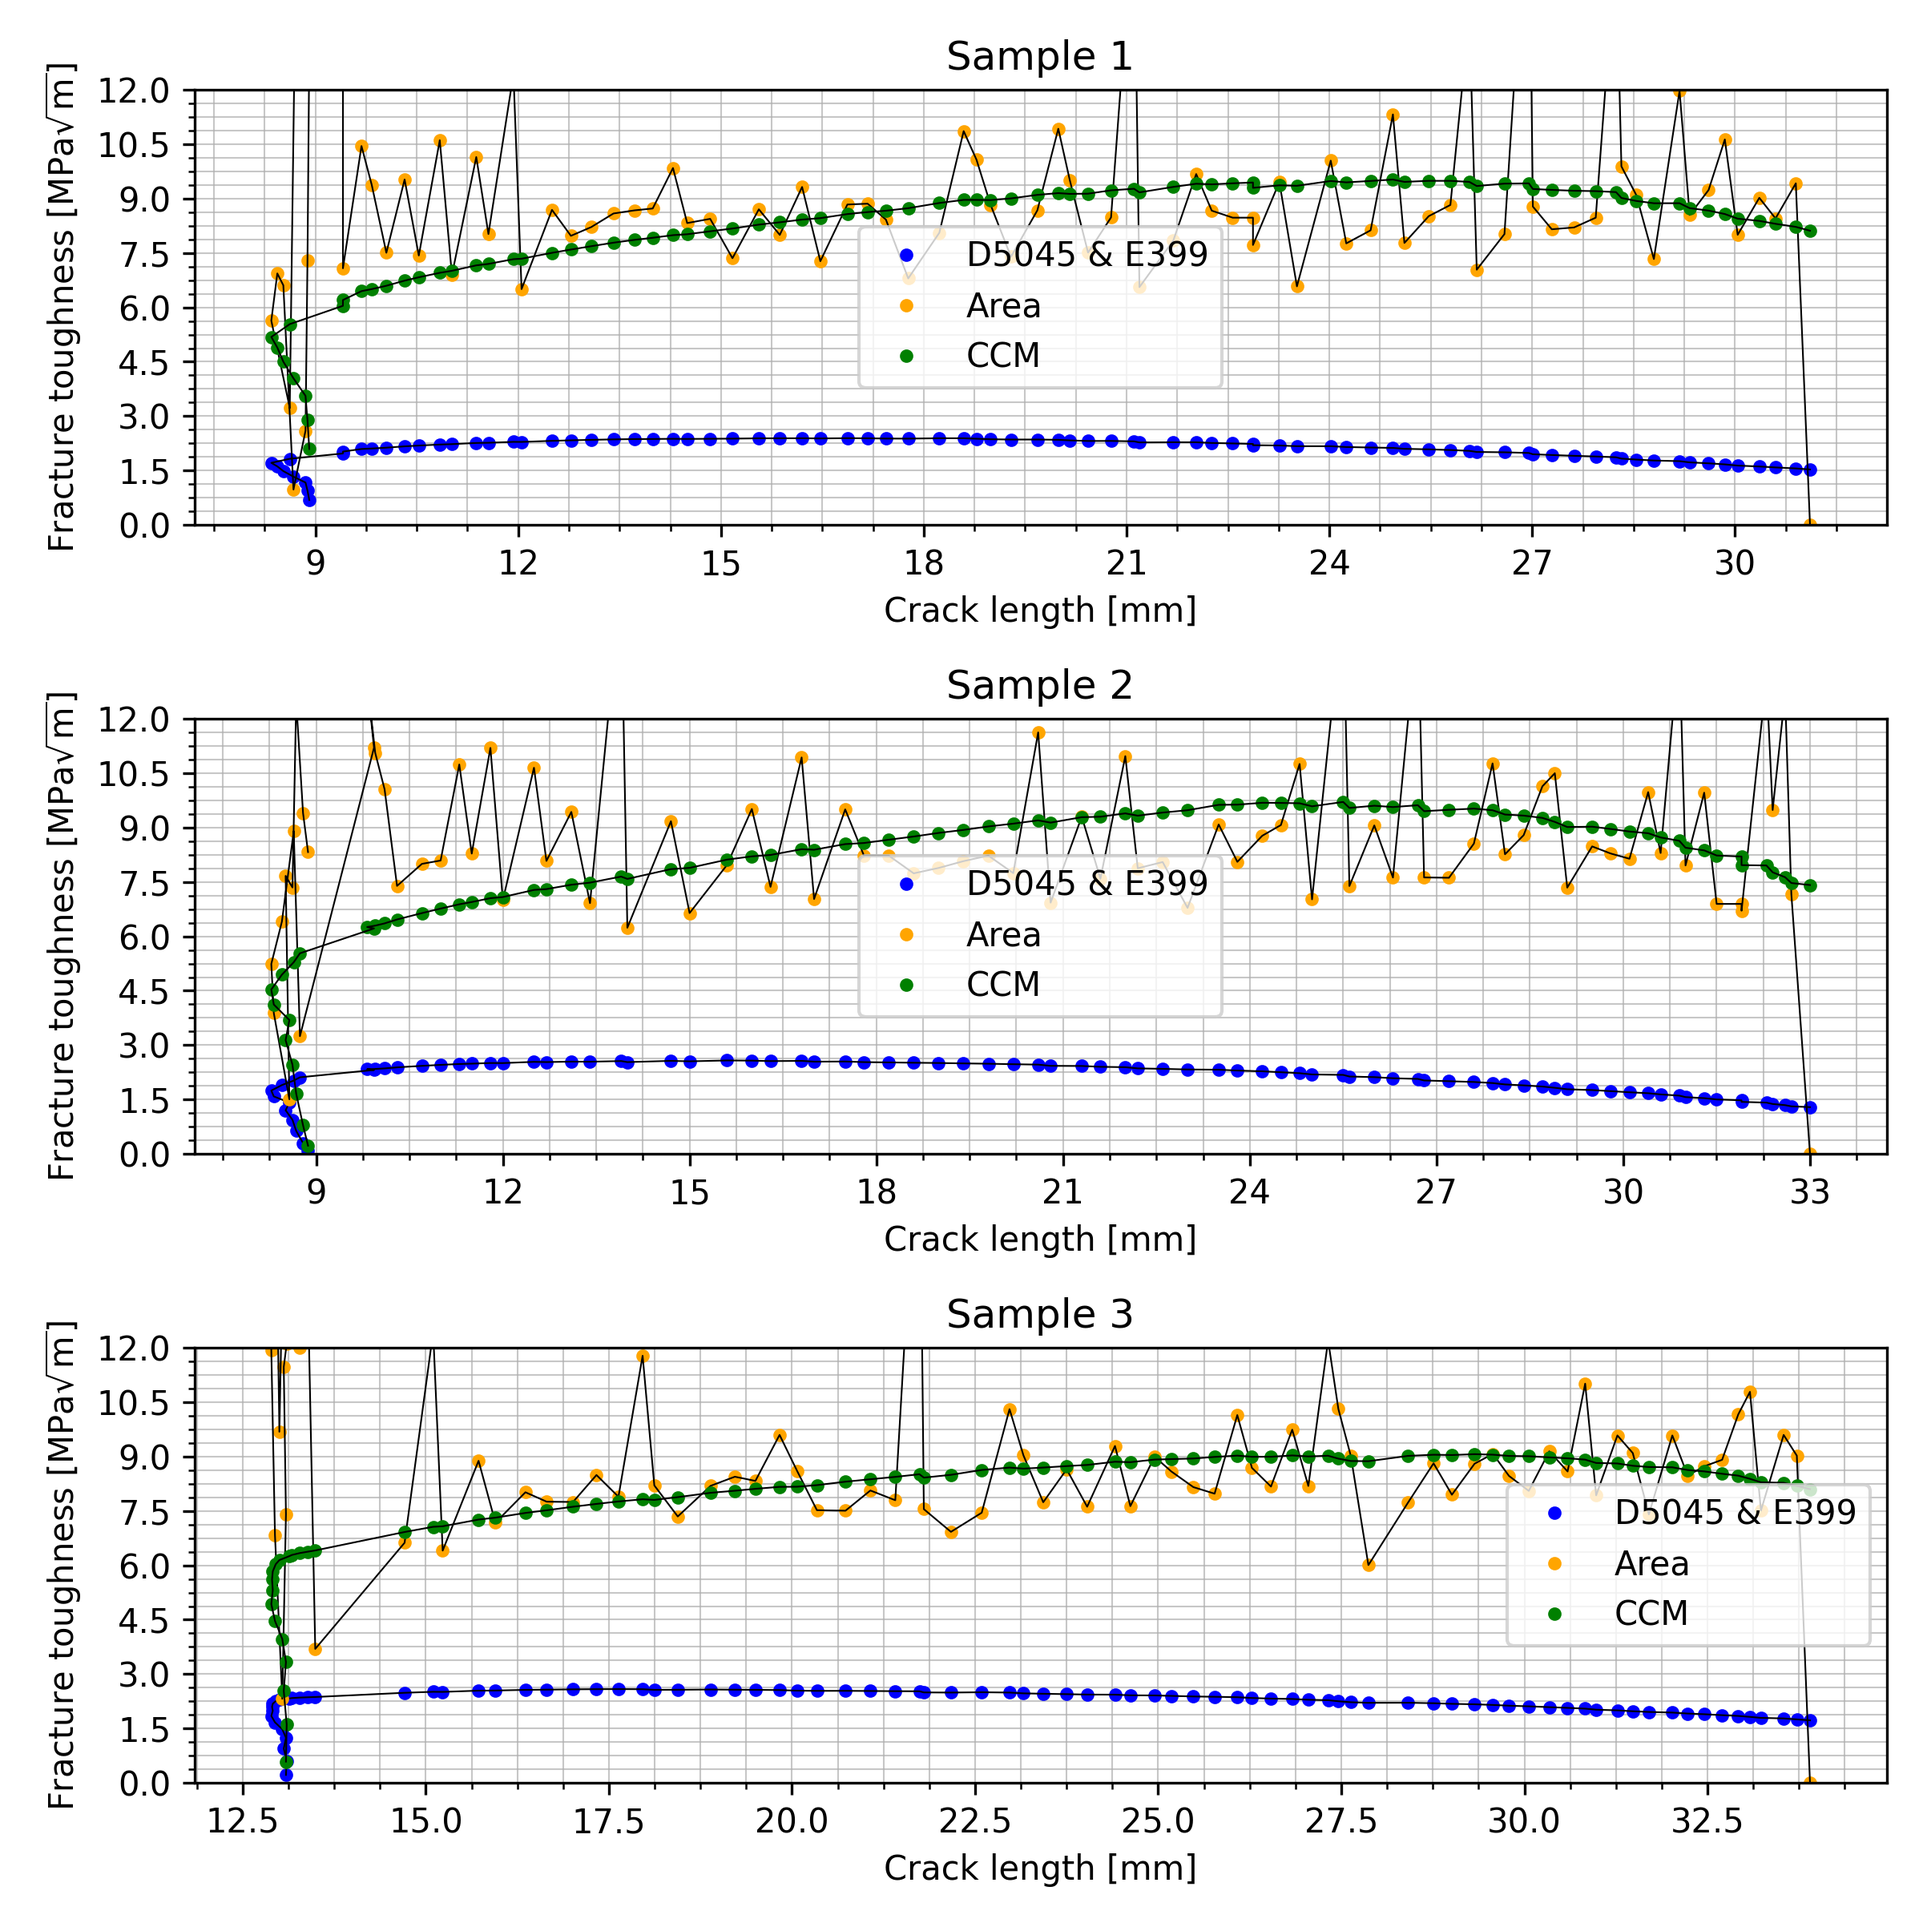
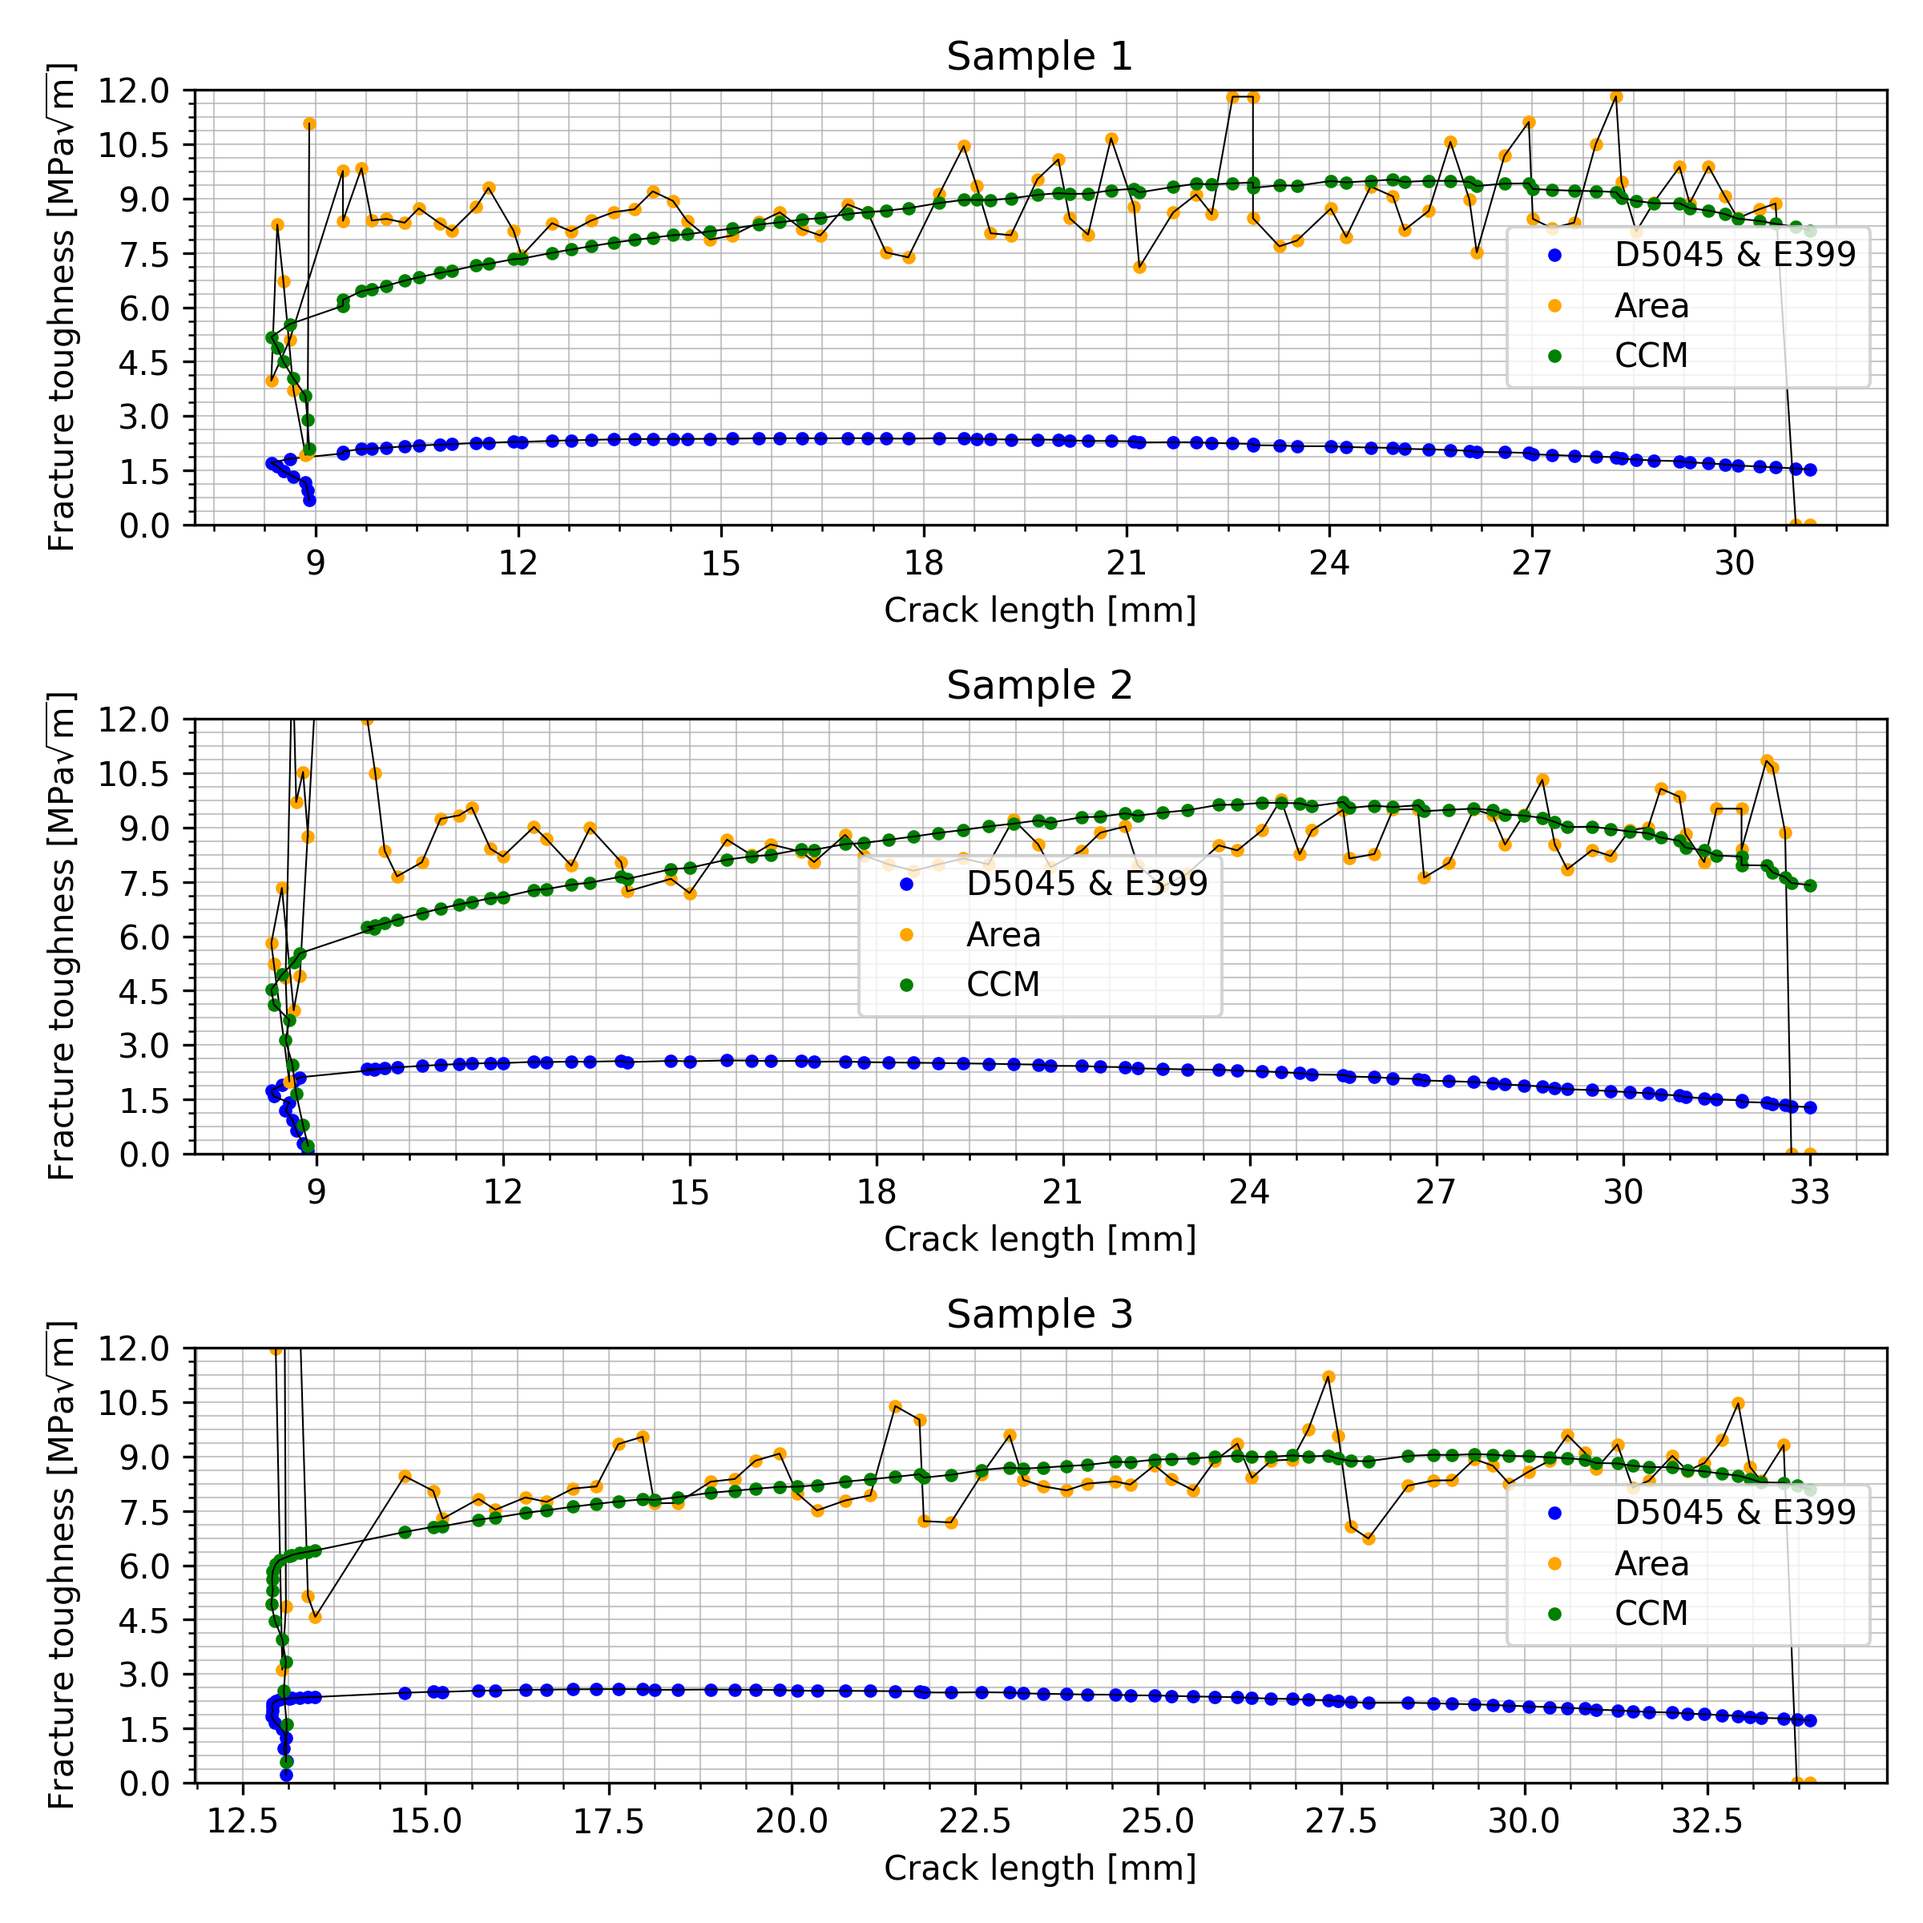
ioujk

diff --git a/AreaMethod.py b/AreaMethod.py
@@ -9,12 +9,13 @@ def G_IC(short_data, t=0.008, v = 0.3):#Calculates the energy release rate G_IC
     frame = short_data[:,3]
     gic = np.zeros((frame.shape[0],2))
     i=0
-    while i < (frame.shape[0]-1):
+    smooth_factor = 2
+    while i < (frame.shape[0]-smooth_factor):
         while crack[i+1] - crack[i] == 0:
             gic[i,1] = frame[i]
             gic[i,0] = gic[i-1,0]
             i += 1
-        gic[i,0] = abs(((load[i]*disp[i+1] - load[i+1]*disp[i]) /( 2*t* (crack[i+1]-crack[i]))))
+        gic[i,0] = abs(((load[i]*disp[i+smooth_factor] - load[i+smooth_factor]*disp[i]) /( 2*t* (crack[i+smooth_factor]-crack[i]))))
         gic[i,1] = frame[i]
         i+=1
     #print("G_C DATA")
